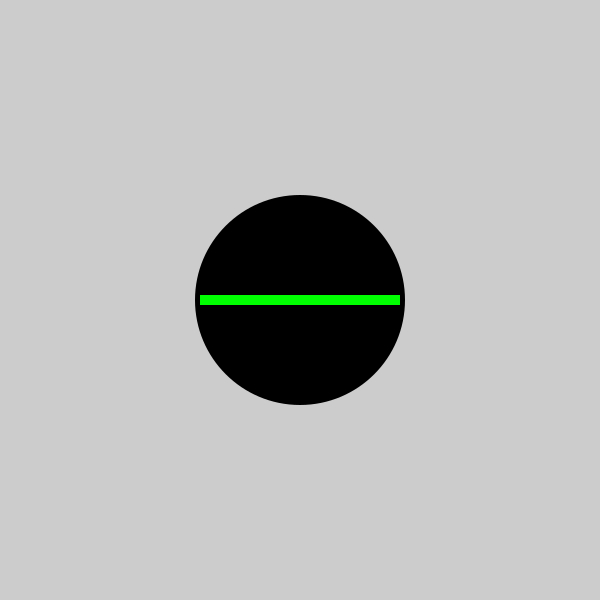
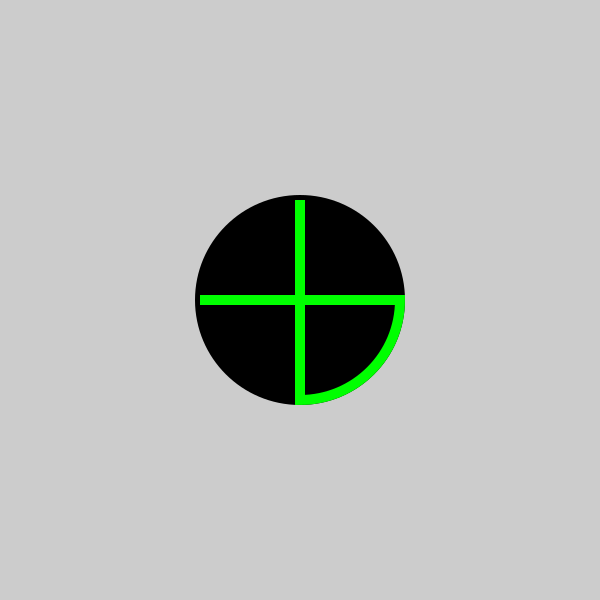
Circle Assignment

Changed region(s): [[0.48, 0.33, 0.69, 0.69]]

diff --git a/src/circles_two.py b/src/circles_two.py
@@ -1,7 +1,8 @@
 import cairo
 import math
 
-surface = cairo.ImageSurface(cairo.FORMAT_ARGB32, 600, 600)
+# Setting up the surface
+surface = cairo.ImageSurface(cairo.FORMAT_RGB24, 600, 600)
 ctx = cairo.Context(surface)
 ctx.set_source_rgb(0.8, 0.8, 0.8)
 ctx.paint()
@@ -13,18 +14,28 @@ ctx.fill_preserve()
 ctx.set_line_width(10)
 ctx.stroke()
 
-# Draw an arc that is 3/4 black and 1/4 green
-ctx.arc(300, 300, 100, -math.pi / 2, math.pi / 2)  # 3/4 black
-ctx.set_source_rgb(0, 0, 0)
-ctx.line_to(300, 300)  # Create a line back to the center
+# Draw an Arc
+ctx.arc(300, 300, 100, 0, math.pi/2)
+ctx.set_source_rgb(0, 1, 0)
+ctx.line_to(300, 300)
 ctx.close_path()
-ctx.fill()
+ctx.stroke()
+
+# Draw an arc that is 3/4 black and 1/4 green
+# ctx.arc(300, 300, 100, -math.pi / 2, math.pi / 2)  # 3/4 black
+# ctx.set_source_rgb(0, 0, 0)
+# ctx.line_to(300, 300)  # Create a line back to the center
+# ctx.close_path()
+# ctx.fill()
 
 # Draw a line to separate the green part
 ctx.move_to(300, 300)
 ctx.line_to(400, 300)
 
 ctx.move_to(200, 300)
+ctx.line_to(300, 300)
+
+ctx.move_to(300, 200)
 ctx.line_to(300, 300)
 
 ctx.set_source_rgb(0, 1, 0)
